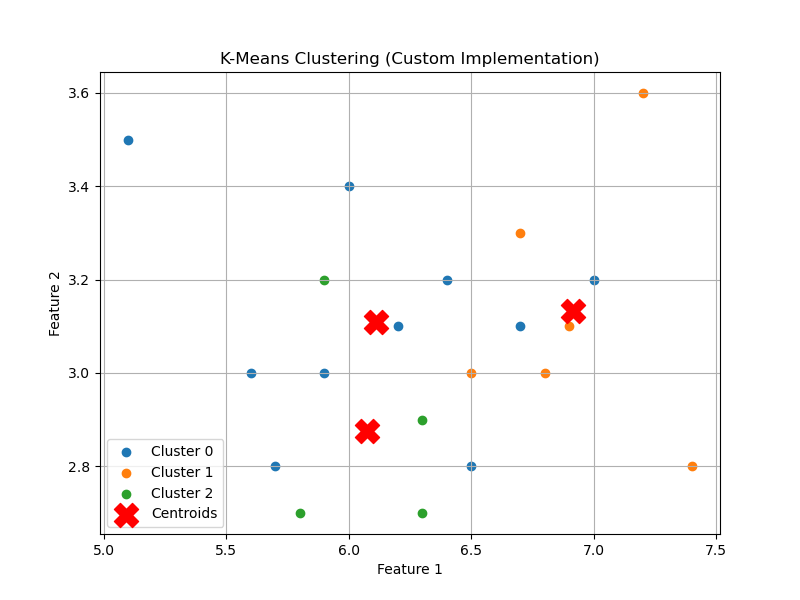
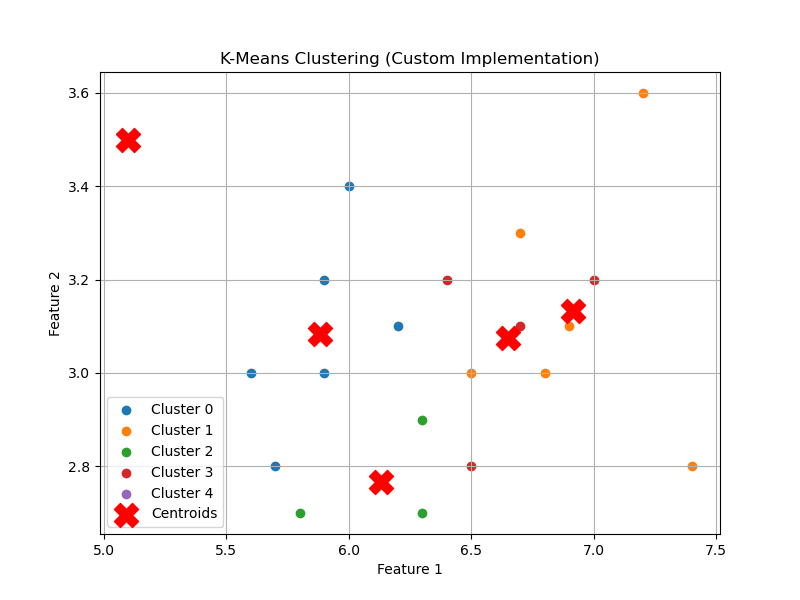
fix bayes bug when dataset not exists in raw .csv

diff --git a/templates/upload_csv.html b/templates/upload_csv.html
@@ -15,7 +15,11 @@
             <label for="min_confidence">Min Confidence:</label>
             <input type="number" step="0.01" name="min_confidence" id="min_confidence" required>
         <br><br>
-            {% endif %}
+        {% elif algorithm == 'k-means' %}
+            <label for="n_clusters">Số cụm (n_clusters):</label>
+            <input type="number" name="n_clusters" id="n_clusters" min="1" required>
+            <br><br>
+        {% endif %}
             
         <button type="submit">Chạy thuật toán</button>
     </form>

diff --git a/algorithms/bayes.py b/algorithms/bayes.py
@@ -23,44 +23,51 @@ def bayes_algorithm(data, feature_list=None, feature_values=None, laplace_smooth
     # Identify target column (last column)
     target_column = data.columns[-1]
     
-    # Filter data based on input features
-    filtered_data = data.copy()
-    for feature, value in zip(feature_list, feature_values):
-        filtered_data = filtered_data[filtered_data[feature] == value]
-    
-    # Check if any data remains after filtering
-    # if len(filtered_data) == 0:
-    #     return {
-    #         'error': "No data found matching the specified features",
-    #         'prediction': None,
-    #         'dataframe': None,
-    #         'html_table': None
-    #     }
-    
-    # Get unique classes
-    classes = filtered_data[target_column].unique()
-    
-    # Calculate class probabilities
+    # Tạo một dictionary để lưu trữ xác suất của từng lớp
     class_probabilities = {}
-    total_samples = len(filtered_data)
     
+    # Lấy danh sách các lớp (giá trị của cột mục tiêu)
+    classes = data[target_column].unique()
+    
+    # Tính xác suất ban đầu của từng lớp
+    total_samples = len(data)
+    initial_class_probabilities = {}
     for cls in classes:
-        # Prior probability of the class
-        class_count = len(filtered_data[filtered_data[target_column] == cls])
-        class_probabilities[cls] = class_count / total_samples
+        initial_class_probabilities[cls] = len(data[data[target_column] == cls]) / total_samples
     
-    # Apply Laplace smoothing if requested
-    if laplace_smoothing:
-        total_classes = len(classes)
-        class_probabilities = {
-            cls: (count + 1) / (total_samples + total_classes)
-            for cls, count in class_probabilities.items()
-        }
+    # Tính xác suất có điều kiện cho từng đặc trưng
+    for cls in classes:
+        # Lọc dữ liệu cho lớp hiện tại
+        class_data = data[data[target_column] == cls]
+        
+        # Khởi tạo xác suất ban đầu của lớp
+        probability = initial_class_probabilities[cls]
+        
+        # Tính xác suất cho từng đặc trưng
+        for feature, value in zip(feature_list, feature_values):
+            # Kiểm tra xem giá trị đặc trưng có tồn tại trong dữ liệu không
+            if value not in data[feature].unique():
+                # Nếu không tồn tại, sử dụng phân phối đều
+                probability *= 1 / len(data[feature].unique())
+            else:
+                # Nếu tồn tại, tính xác suất có điều kiện
+                feature_count = len(class_data[class_data[feature] == value])
+                total_count = len(class_data)
+                
+                # Áp dụng Laplace smoothing nếu được yêu cầu
+                if laplace_smoothing:
+                    unique_feature_values = len(data[feature].unique())
+                    probability *= (feature_count + 1) / (total_count + unique_feature_values)
+                else:
+                    probability *= feature_count / total_count
+        
+        # Lưu xác suất của lớp
+        class_probabilities[cls] = probability
     
-    # Select class with highest probability
+    # Chọn lớp có xác suất cao nhất
     predicted_class = max(class_probabilities, key=class_probabilities.get)
     
-    # Prepare result data for formatting
+    # Chuẩn bị dữ liệu kết quả để định dạng
     result_data = [
         {
             'Đặc trưng': feature,
@@ -68,19 +75,28 @@ def bayes_algorithm(data, feature_list=None, feature_values=None, laplace_smooth
         } for feature, value in zip(feature_list, feature_values)
     ]
     
-    # Add prediction to result data
+    # Thêm dự đoán vào kết quả
     result_data.append({
         'Đặc trưng': 'Kết quả dự đoán',
         'Giá trị': str(predicted_class)
     })
     
-    # Create DataFrame
+    # Tạo DataFrame
     result_df = pd.DataFrame(result_data)
     
-    # Create HTML table
+    # Tạo HTML table
     html_table = result_df.to_html(
         classes='table table-striped table-bordered', 
         index=False, 
         escape=False
     )
+    
     return html_table
+
+# Ví dụ sử dụng
+# Đọc dữ liệu
+# data = pd.read_csv('bayes-data.csv')
+# result = bayes_algorithm(data, 
+#                          feature_list=['Outlook', 'Temperature', 'Humidity', 'Wind'], 
+#                          feature_values=['Rainy', 'Mild', 'High', 'Strong'])
+# print(result)

diff --git a/algorithms/k_means.py b/algorithms/k_means.py
@@ -3,6 +3,12 @@ import pandas as pd
 import matplotlib.pyplot as plt
 
 def kmeans_algorithm(data, n_clusters=3, max_iter=100, tolerance=1e-4):
+    # Kiểm tra điều kiện dữ liệu đầu vào
+    if n_clusters <= 0:
+        raise ValueError("Số cụm (n_clusters) phải lớn hơn 0.")
+    if n_clusters > len(data):
+        raise ValueError("Số cụm (n_clusters) không được vượt quá số lượng mẫu trong dữ liệu.")
+    
     # Chuyển đổi dữ liệu thành mảng numpy
     data = data.values
     n_samples, n_features = data.shape
@@ -32,7 +38,9 @@ def kmeans_algorithm(data, n_clusters=3, max_iter=100, tolerance=1e-4):
         if centroid_shift < tolerance:
             print(f"K-Means hội tụ sau {iteration + 1} vòng lặp.")
             break
-
+    else:
+        print("K-Means không hội tụ sau số vòng lặp tối đa.")
+        
     # Vẽ biểu đồ
     plt.figure(figsize=(8, 6))
     for i in range(n_clusters):

diff --git a/app.py b/app.py
@@ -101,7 +101,8 @@ def process_csv(algorithm):
             )
             image_path = None
         elif algorithm == 'k-means':
-            result, image_path = kmeans_algorithm(data)
+            n_clusters = int(request.form.get('n_clusters', 3))
+            result, image_path = kmeans_algorithm(data, n_clusters=n_clusters)
         elif algorithm == 'decision_tree':
             result, image_path = decision_tree_algorithm(data)
         elif algorithm == 'kohonen':
